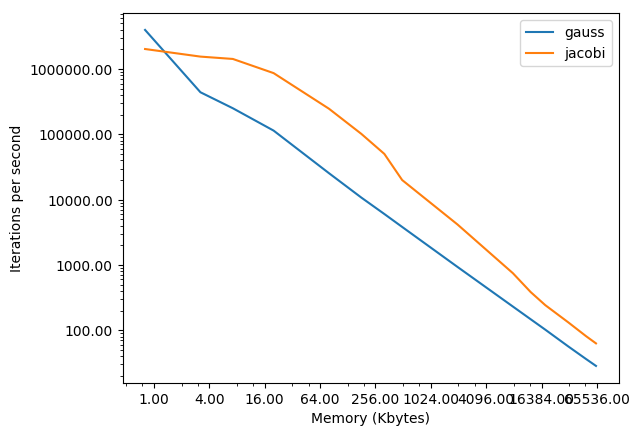
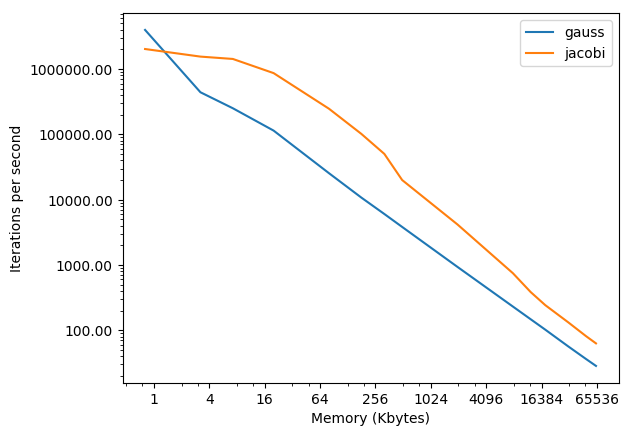
removed decimals from x axis

diff --git a/vizconvergence.py b/vizconvergence.py
@@ -26,7 +26,7 @@ plt.ylabel('Iterations per second')
 plt.xscale('log',basex=4)
 plt.yscale('log',basey=10)
 ax = plt.gca().xaxis 
-ax.set_major_formatter(FormatStrFormatter('%.2f'))
+ax.set_major_formatter(ScalarFormatter())
 plt.gca().yaxis.set_major_formatter(FormatStrFormatter('%.2f')) 
 plt.savefig('iterationspersecond.png', bbox_inches='tight')
 plt.close()
